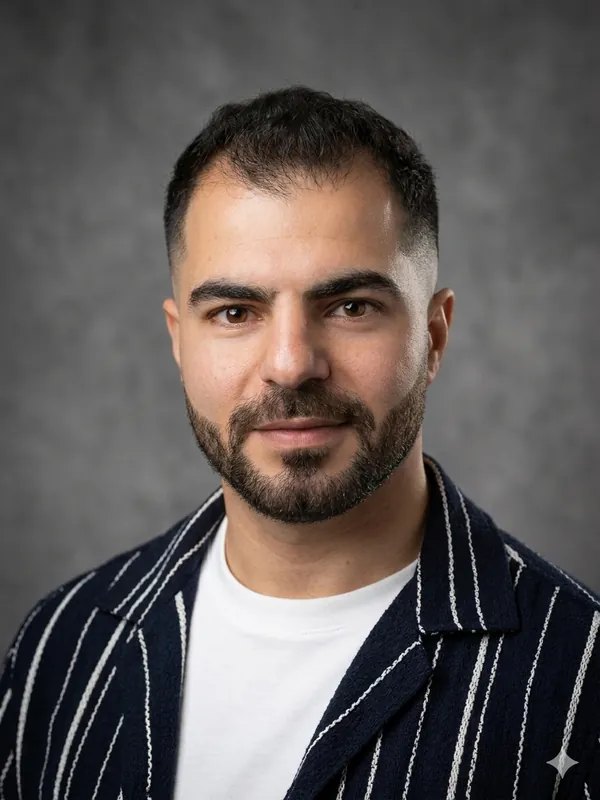
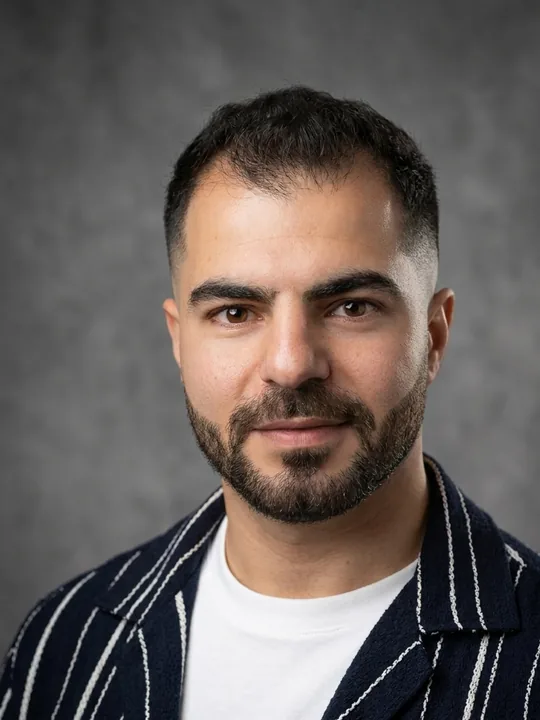
Numéro WhatsApp, photo recadrée, bouton WhatsApp mobile en icône
Claude-Session: https://claude.ai/code/session_01RFbG9q6ajELLTmZsmVryea

diff --git a/src/content.ts b/src/content.ts
@@ -8,7 +8,7 @@ export const config = {
   email: "info@antounhelal.fr",
   // Numéro WhatsApp au format international, sans + ni espaces (ex. 33612345678).
   // Vide = les boutons WhatsApp renvoient vers le formulaire de contact.
-  whatsapp: "",
+  whatsapp: "33764218488",
   github: "https://github.com/Toni-Helal",
   linkedin: "https://www.linkedin.com/in/antoun-helal",
   cv: "cv-antoun-helal.pdf",

diff --git a/src/components/Why.tsx b/src/components/Why.tsx
@@ -14,8 +14,8 @@ export default function Why() {
           <img
             src="images/antoun.webp"
             alt={c.why.photoAlt}
-            width={600}
-            height={800}
+            width={540}
+            height={720}
             loading="lazy"
             className="w-full rounded-2xl border border-white/10 object-cover aspect-[3/4]"
           />
